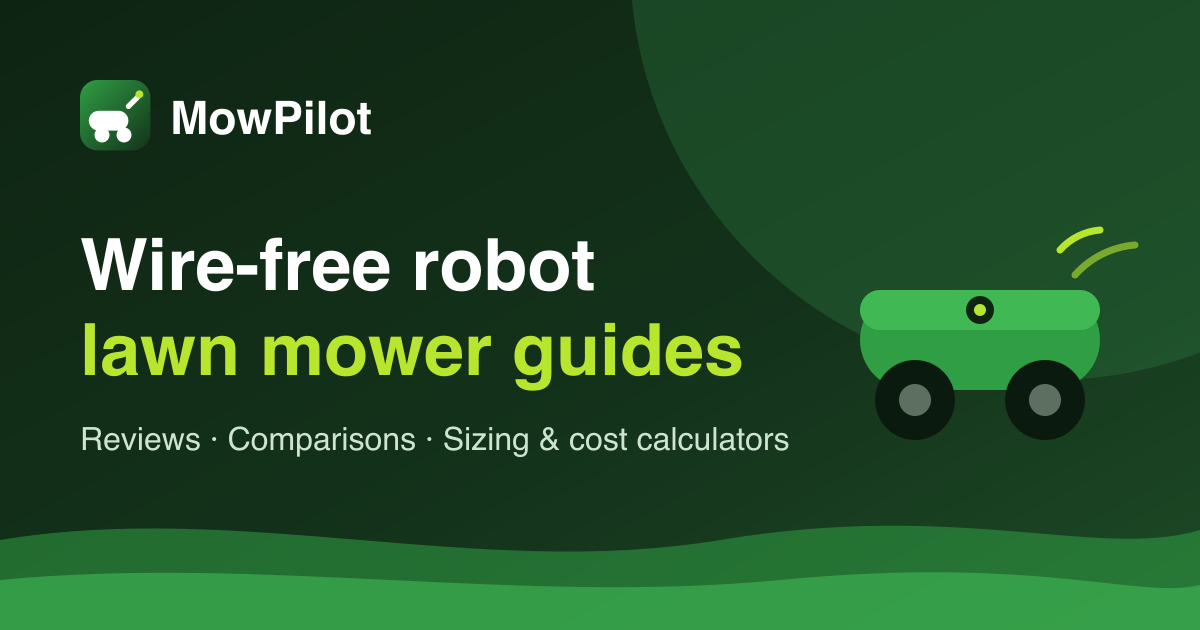
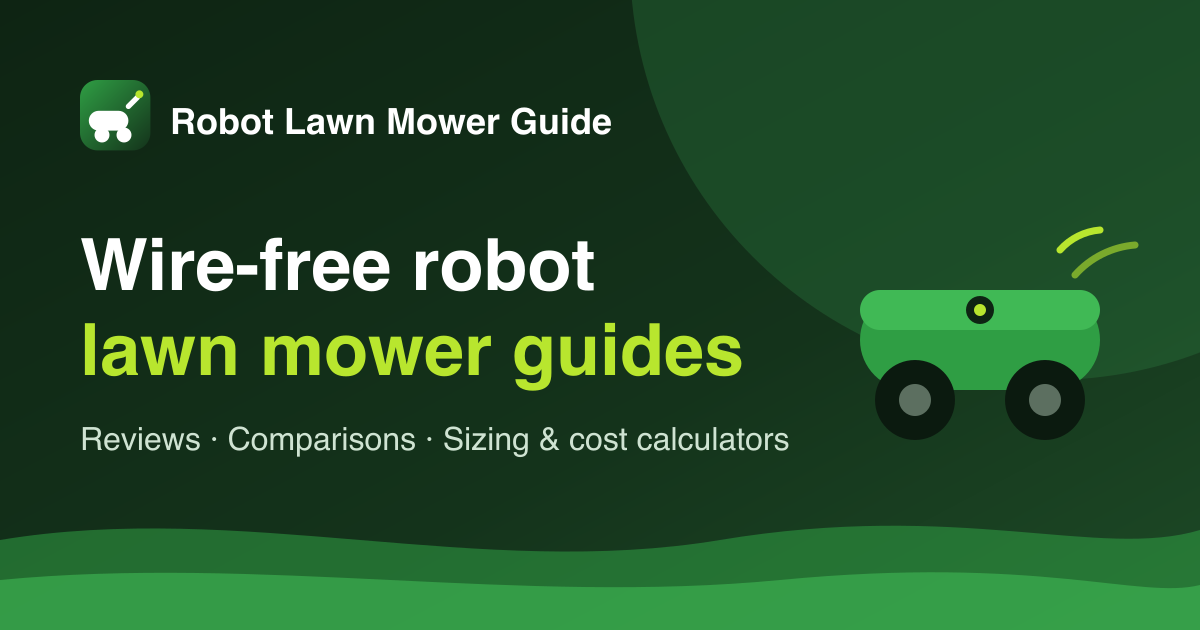
Update branding and URLs to reflect new domain: Robot Lawn Mower Guide

Changed region(s): [[0.1233, 0.1508, 0.5242, 0.2111]]

diff --git a/src/pages/og/[...slug].png.ts b/src/pages/og/[...slug].png.ts
@@ -58,7 +58,7 @@ export const GET: APIRoute = async ({ props }) => {
       h("div", { display: "flex", alignItems: "center", gap: 18 }, [
         h("div", { width: 56, height: 56, borderRadius: 14, background: "linear-gradient(135deg,#2f9e44,#14331b)", border: "2px solid #40b955", display: "flex", alignItems: "center", justifyContent: "center" },
           h("div", { width: 14, height: 14, borderRadius: 999, background: "#b8e62e" })),
-        h("div", { fontFamily: "Sora", fontWeight: 800, fontSize: 38 }, "MowPilot"),
+        h("div", { fontFamily: "Sora", fontWeight: 800, fontSize: 28 }, "Robot Lawn Mower Guide"),
         h("div", { marginLeft: "auto", fontSize: 22, color: "#b8e62e", border: "2px solid rgba(184,230,46,.45)", borderRadius: 999, padding: "8px 22px", textTransform: "uppercase", letterSpacing: 3, fontWeight: 700 }, kicker),
       ]),
       h("div", { display: "flex", alignItems: "flex-end", gap: 40 }, [

diff --git a/src/lib/site.ts b/src/lib/site.ts
@@ -1,7 +1,7 @@
-// Central site config. Update SITE_NAME / SITE_URL when the domain is finalized
+// Central site config. Domain: robotlawnmowerguide.com
 // (also update `SITE` in astro.config.mjs and public/robots.txt).
-export const SITE_NAME = "MowPilot";
-export const SITE_URL = "https://robot-mower-guide-9oz.pages.dev";
+export const SITE_NAME = "Robot Lawn Mower Guide";
+export const SITE_URL = "https://robotlawnmowerguide.com";
 export const SITE_TAGLINE = "Wire-free robot lawn mower guides, comparisons, and calculators.";
 export const SITE_DESCRIPTION =
   "Independent guides to wire-free robot lawn mowers: model comparisons, sizing calculators, slope checkers, and cost breakdowns so you buy the right mower the first time.";

diff --git a/src/styles/global.css b/src/styles/global.css
@@ -1,4 +1,4 @@
-/* MowPilot design system — "fresh cut" theme */
+/* Robot Lawn Mower Guide design system — "fresh cut" theme */
 :root {
   --bg: #f6faf3;
   --bg-soft: #eef5e9;

diff --git a/src/content/posts/best-robot-lawn-mowers-2026.md b/src/content/posts/best-robot-lawn-mowers-2026.md
@@ -225,7 +225,7 @@ Plug your own numbers into the [cost calculator](/tools/cost-calculator/) to see
 
 ## How we chose these picks
 
-We don't run a test lawn. MowPilot is a research-based guide: for each model we compiled specs from manufacturer US pages, dated October 2026 street prices from retailer and deal listings, and findings from hands-on reviews by outlets including Reviewed, Bob Vila, Tom's Guide, TechAeris, Gizmodo, BGR, How-To Geek and TechRadar, plus owner reports. We score each mower on navigation, terrain, coverage and value, then match winners to the yard types US buyers actually have. Boundary-wire-only models were excluded. Our full method is on the [how we research](/how-we-research/) page.
+We don't run a test lawn. Robot Lawn Mower Guide is a research-based guide: for each model we compiled specs from manufacturer US pages, dated October 2026 street prices from retailer and deal listings, and findings from hands-on reviews by outlets including Reviewed, Bob Vila, Tom's Guide, TechAeris, Gizmodo, BGR, How-To Geek and TechRadar, plus owner reports. We score each mower on navigation, terrain, coverage and value, then match winners to the yard types US buyers actually have. Boundary-wire-only models were excluded. Our full method is on the [how we research](/how-we-research/) page.
 
 This October 2026 update replaces the discontinued LUBA 2 AWD and older Landroid Vision models with the current lineup.
 

diff --git a/src/content/posts/dreame-a3-awd-pro-vs-mammotion-luba-3-awd.md b/src/content/posts/dreame-a3-awd-pro-vs-mammotion-luba-3-awd.md
@@ -61,7 +61,7 @@ Prices on both have swung by hundreds of dollars this year, so check the current
 | Connectivity | 4G eSIM (3 years included), Wi-Fi, Bluetooth | 4G (3 years included), Wi-Fi, Bluetooth |
 | Anti-theft | PIN, lift alarm, 4G tracking, AirTag slot, camera patrol | 4G GPS tracking, live camera view, PIN |
 | Warranty | 3 years | 3 years |
-| MowPilot score | 8.7 / 10 | 9.2 / 10 |
+| Guide score | 8.7 / 10 | 9.2 / 10 |
 
 On our research-based subscores, the LUBA 3 leads on navigation (9.5 vs 8.5) and terrain (10 vs 9.5), they tie on coverage (9), and the Dreame wins clearly on value (9 vs 7.5). The Dreame's lower navigation score reflects split reviews: Bob Vila named it best for steep slopes and Gizmodo was positive, but Reviewed reported a difficult setup, boundary crossings into mulch beds and turf scalping when it got stuck. Full spec sheets live on our [Dreame A3 AWD Pro review](/mowers/dreame-a3-awd-pro/) and [LUBA 3 AWD review](/mowers/mammotion-luba-3-awd/), and you can line both up against the other 19 models on the [comparison chart](/mowers/).
 

diff --git a/src/content/posts/ecovacs-goat-vs-segway-navimow.md b/src/content/posts/ecovacs-goat-vs-segway-navimow.md
@@ -58,7 +58,7 @@ Both brands sell several sizes, so we've matched them by price band below. Price
 | Cutting height | 1.18–3.15" | 1.18–3.54" | 2.0–3.6" (manual) | 2.0–3.6" (manual) | 0.8–2.8" (motorized) | 0.75–4.0" |
 | Noise | 61 dB (trimmer ~81 dB) | 62 dB (trimmer ~82 dB) | 58 dB | 59 dB | 59 dB | 60 dB (per PCWorld) |
 | 4G / anti-theft | No 4G; none listed | Optional cellular module; none listed | 4G; GPS tracking, alarm | 4G; GPS tracking, geofence | 4G; tracking, geofence | 4G; GPS tracking, geofence alarm |
-| MowPilot score | 8.1 | 8.9 | 8.3 | 8.5 | 8.4 | 9.3 |
+| Guide score | 8.1 | 8.9 | 8.3 | 8.5 | 8.4 | 9.3 |
 
 Full specs are on our reviews of the [GOAT O1000](/mowers/ecovacs-goat-o1000-lidar-pro/), [GOAT A2000/A3000](/mowers/ecovacs-goat-a-lidar-pro/), [Navimow i105N/i110N](/mowers/segway-navimow-i105n-i110n/), [Navimow i2 AWD](/mowers/segway-navimow-i2-awd/), [Navimow i215](/mowers/segway-navimow-i215-lidar/) and [Navimow X4](/mowers/segway-navimow-x4/).
 

diff --git a/src/content/posts/husqvarna-automower-vs-mammotion-luba.md b/src/content/posts/husqvarna-automower-vs-mammotion-luba.md
@@ -61,7 +61,7 @@ Prices below are October 2026 street and campaign prices, and Husqvarna's in par
 | Weather rating | IPX5 | IPX4 | IPX6 | IPX6 |
 | Anti-theft | GPS tracking, alarm, PIN, geofence | GPS tracking, alarm, PIN, geofence | 4G GPS tracking, live camera, PIN | 4G tracking, live view, PIN |
 | Warranty | 4 years | Dealer-backed (confirm term) | 3 years | Check listing |
-| MowPilot score | 8.0 | 7.6 | 9.2 | 8.6 |
+| Guide score | 8.0 | 7.6 | 9.2 | 8.6 |
 
 Full specs and tier tables are on our reviews of the [Automower iQ](/mowers/husqvarna-automower-iq/), [Automower 435 iQ AWD](/mowers/husqvarna-automower-435-iq-awd/), [LUBA 3 AWD](/mowers/mammotion-luba-3-awd/) and [LUBA mini 2 AWD](/mowers/mammotion-luba-mini-2-awd/).
 

diff --git a/README.md b/README.md
@@ -1,4 +1,4 @@
-# MowPilot — robot-mower-guide
+# Robot Lawn Mower Guide — robotlawnmowerguide.com
 
 Wire-free robot lawn mower buyer's guide: Astro static site with buying guides,
 comparisons, a review page per model, a sortable comparison chart, and 3 interactive
